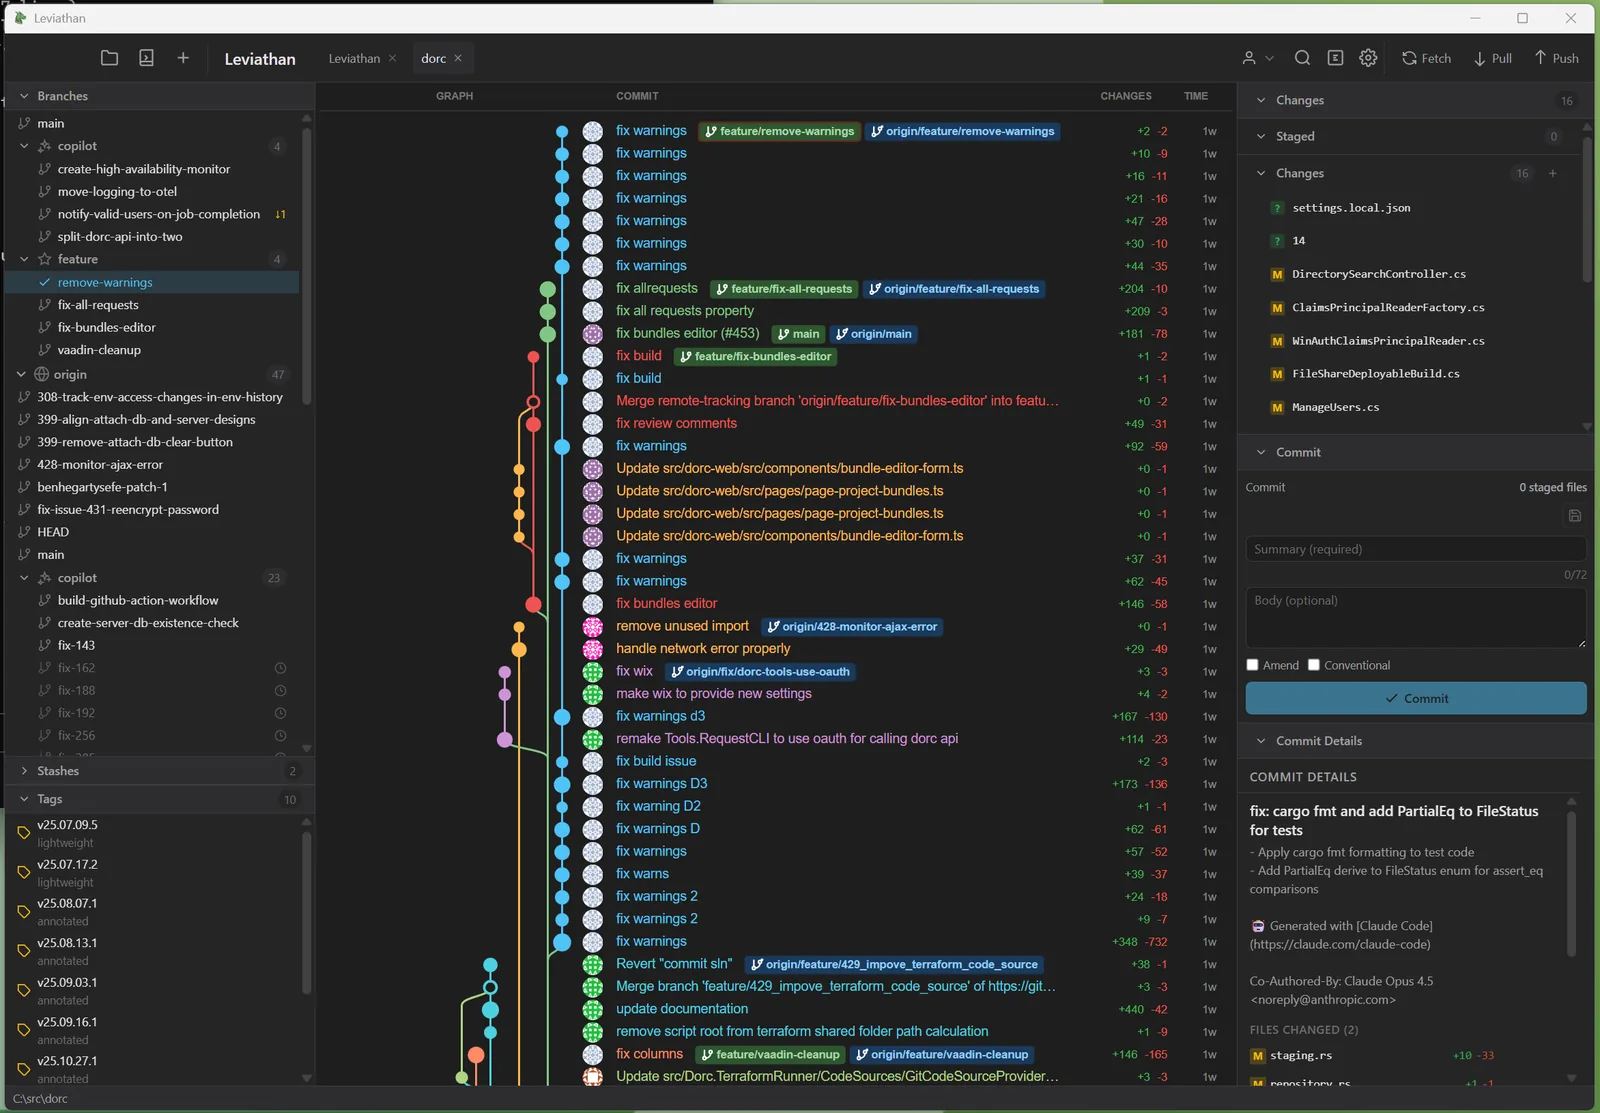
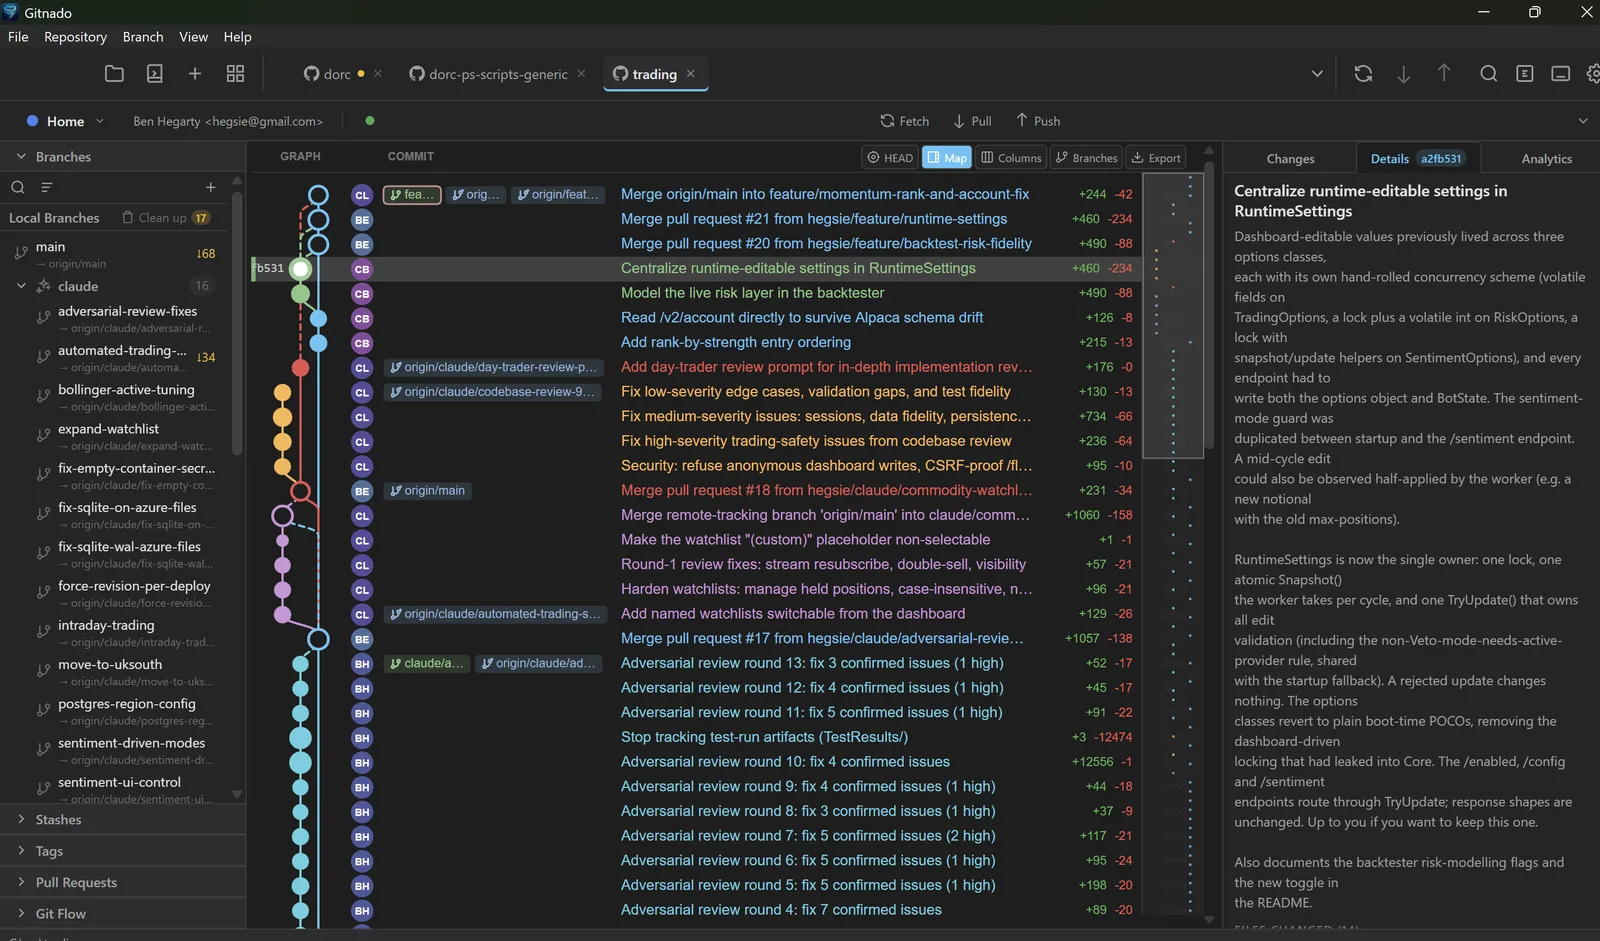
site: replace the Leviathan screenshot with a Gitnado window
The landing page still showed the old Leviathan main window. Swap in a
current Gitnado screenshot (title bar cursor removed, resized to 1600px
wide, WebP q82), update the intrinsic width/height so the page does not
reflow while it loads, and adjust the alt text and caption to describe
the commit details panel now in view. Drop the raw PNG that was uploaded
to main; the WebP is the only copy the page uses.

Claude-Session: https://claude.ai/code/session_01LoUA6Psr1kPCJK3pFMie8F

diff --git a/site/index.html b/site/index.html
@@ -177,8 +177,8 @@
     <div class="shot">
       <div class="wrap">
         <figure>
-          <img src="assets/main-window.webp" alt="Gitnado main window showing the branch list, commit graph with branch and tag labels, and the staging and commit panel" width="1600" height="1113" loading="eager" decoding="async">
-          <figcaption>Commit graph, branches, staging and commit details in one window.</figcaption>
+          <img src="assets/main-window.webp" alt="Gitnado main window showing the branch list, commit graph with branch labels and diff stats, and the commit details panel" width="1600" height="941" loading="eager" decoding="async">
+          <figcaption>Commit graph, branches and commit details in one window.</figcaption>
         </figure>
       </div>
     </div>
